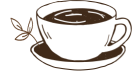
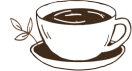
header

diff --git a/src/css/header.css b/src/css/header.css
@@ -1,17 +1,27 @@
-h1 {
-  font-size: 3rem;
-  margin-bottom: 1rem;
-  color: color(var(--textColor) lightness(50%));
-  font-variant-caps: small-caps;
-  position: relative;
+.header {
+  background-color: var(--mainColor);
+  width: 100%;
+  height: 13.6rem;
+  display: flex;
+}
+
+.header__titles {
+  padding: 3rem;
+
+}
+
+.h2-like {
+  font-size: var(--small);
+  text-transform: uppercase;
+}
+
+.h1-like {
+  font-size: var(--big);
+  display: flex;
+  align-items: center;
 
   &::after {
-    content: "";
-    background-image: url("../assets/img/balloon.png");
-    background-size: contain;
-    background-repeat: no-repeat;
-    position: absolute;
-    height: 100%;
-    width: 40vw;
+    content: url(../assets/img/plan-based-coffee.png);
+    display: inline-block;
   }
 }

diff --git a/src/css/vars.css b/src/css/vars.css
@@ -1,6 +1,13 @@
 :root {
-  --backgroundColor: #eaeae9;
-  --textColor: #463636;
-  --anotherColor: #bada55;
-  --margin: 2rem;
+  /* colors */
+  --mainColor: #f9d2cb;
+  --darkColor: #212121;
+  --secondaryColor: #a3f4dc;
+  --gray: #9c9c9c;
+  --margin: 3rem;
+
+  /* font-sizes */
+  --small: 1.2rem;
+  --regular: 1.8rem;
+  --big: 2.6rem;
 }

diff --git a/src/index.html b/src/index.html
@@ -15,7 +15,7 @@
         <a class="h2-like">
           The Plant-Based Barista
         </a>
-        <h1 class="h1-like">What do you want to order?</h1>
+        <h1 class="h1-like">What do you want to order?☕</h1>
       </div>
     </header>
     <section class="prices highlight spaced">

diff --git a/src/style.css b/src/style.css
@@ -1,0 +1,16 @@
+@import './css/reset.css';
+@import './css/vars.css';
+@import './css/header.css';
+
+html {
+  box-sizing: border-box;
+  font-size: 62.5%;
+  font-family: Roboto, Arial, Helvetica, sans-serif;
+}
+
+/* stylelint-disable */
+*,
+*:before,
+*:after {
+  box-sizing: inherit;
+}

diff --git a/src/index.js b/src/index.js
@@ -1,8 +1,2 @@
 import './style.css';
-import {devineLog} from './js/utility/helpers';
 
-devineLog(`Hey, ik ben een JS file`);
-const arr = [1, 2,  3];
-
-const ES6Stuff = () => devineLog(`Ik kan ES6 stuff aan`, ...arr);
-ES6Stuff();
